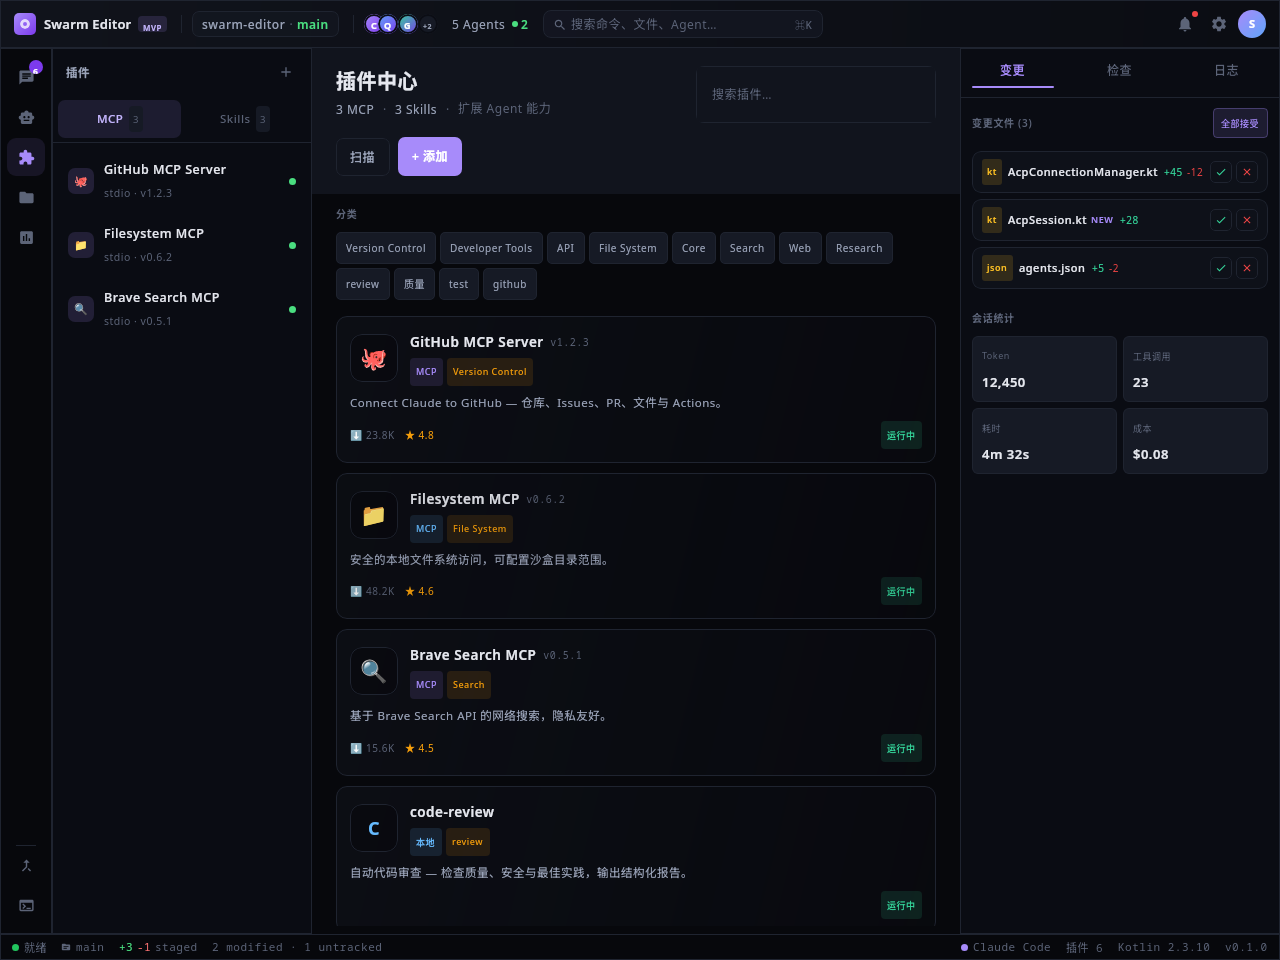
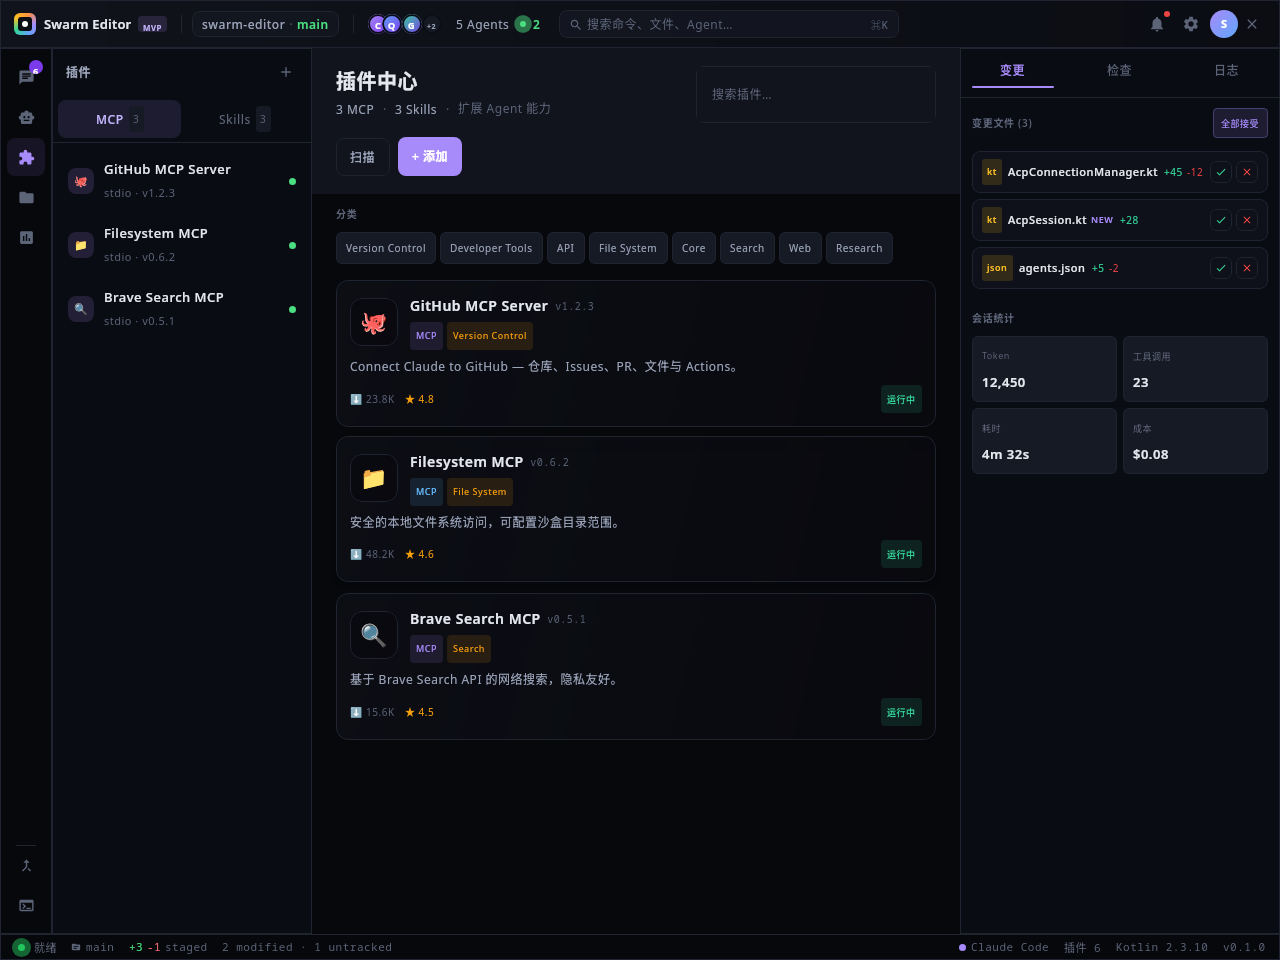
feat(desktop): 插件 MCP/Skills 独立面板 + 卡片 elevation 深度感
- 插件侧栏 MCP/Skills subtab 现驱动中间区（点击 MCP→显示 MCP 卡片；
  Skills→显示 Skills 卡片），不再合并显示（对齐核心稿 setPluginSideTab）
- 卡片基础 elevation 0→2dp（始终有微妙阴影层次感），hover 时 8dp
- 截图更新（chat + plugins）

diff --git a/desktopApp/src/main/kotlin/com/swarmeditor/desktop/ui/plugins/PluginCenterView.kt b/desktopApp/src/main/kotlin/com/swarmeditor/desktop/ui/plugins/PluginCenterView.kt
@@ -60,7 +60,8 @@ enum class PluginSubTab(val label: String) {
 fun PluginCenterView(
     mcpServers: List<McpServerDto>,
     skills: List<SkillDto>,
-    modifier: Modifier = Modifier
+    modifier: Modifier = Modifier,
+    activeTab: String = "mcp"
 ) {
     // State: list vs detail
     var selectedItem by remember { mutableStateOf<PluginItem?>(null) }
@@ -162,8 +163,8 @@ fun PluginCenterView(
                     }
                 }
 
-                // 分类标签（合并 MCP 分类 + Skills 标签）
-                val categories = (mcpServers.flatMap { it.categories } + skills.flatMap { it.tags }).distinct()
+                // 分类标签（按当前 tab 筛选）
+                val categories = if (activeTab == "mcp") mcpServers.flatMap { it.categories }.distinct() else skills.flatMap { it.tags }.distinct()
 
                 if (categories.isNotEmpty()) {
                     Column(modifier = Modifier.padding(horizontal = 24.dp, vertical = 8.dp)) {
@@ -198,13 +199,15 @@ fun PluginCenterView(
                     }
                 }
 
-                // 卡片网格：合并 MCP + Skills（按搜索过滤）
+                // 卡片网格：按当前 tab 筛选 MCP 或 Skills
                 val q = searchQuery.text.lowercase()
-                val items: List<PluginItem> =
+                val items: List<PluginItem> = if (activeTab == "mcp") {
                     mcpServers.filter { q.isEmpty() || it.name.lowercase().contains(q) || it.description.lowercase().contains(q) }
-                        .map { PluginItem.Mcp(it) } +
-                        skills.filter { q.isEmpty() || it.name.lowercase().contains(q) || it.description.lowercase().contains(q) }
+                        .map { PluginItem.Mcp(it) }
+                } else {
+                    skills.filter { q.isEmpty() || it.name.lowercase().contains(q) || it.description.lowercase().contains(q) }
                         .map { PluginItem.Skill(it) }
+                }
 
                 if (items.isEmpty()) {
                     Box(

diff --git a/desktopApp/src/main/kotlin/com/swarmeditor/desktop/App.kt b/desktopApp/src/main/kotlin/com/swarmeditor/desktop/App.kt
@@ -86,6 +86,7 @@ fun App(onClose: () -> Unit = {}) {
     var showSettings by remember { mutableStateOf(false) }
     var showRightPanel by remember { mutableStateOf(true) }
     var rightTab by remember { mutableStateOf("changes") }
+    var pluginSubTab by remember { mutableStateOf("mcp") }
     var showMcpConfig by remember { mutableStateOf<String?>(null) }
     var inputText by remember { mutableStateOf("") }
     val showAgentConfig by mainVm.showAgentConfig.collectAsState()
@@ -203,6 +204,8 @@ fun App(onClose: () -> Unit = {}) {
                     onSelectMcp = { showMcpConfig = it.id },
                     onSelectSkill = { mainVm.switchView("plugins") },
                     onAdd = { mainVm.showToast("添加插件") },
+                    activeTab = pluginSubTab,
+                    onTabChange = { pluginSubTab = it },
                     modifier = Modifier.fillMaxHeight()
                 )
                 else -> {}
@@ -242,7 +245,8 @@ fun App(onClose: () -> Unit = {}) {
                             PluginCenterView(
                                 mcpServers = mcpServers,
                                 skills = skills,
-                                modifier = Modifier.fillMaxSize()
+                                modifier = Modifier.fillMaxSize(),
+                                activeTab = pluginSubTab
                             )
                         }
                         "files" -> {

diff --git a/desktopApp/src/main/kotlin/com/swarmeditor/desktop/ui/SidePanels.kt b/desktopApp/src/main/kotlin/com/swarmeditor/desktop/ui/SidePanels.kt
@@ -139,9 +139,11 @@ fun PluginSideBar(
     onSelectMcp: (McpServerDto) -> Unit,
     onSelectSkill: (SkillDto) -> Unit,
     onAdd: () -> Unit = {},
+    activeTab: String = "mcp",
+    onTabChange: (String) -> Unit = {},
     modifier: Modifier = Modifier
 ) {
-    var tab by remember { mutableStateOf(PluginSideTab.MCP) }
+    val tab = if (activeTab == "skills") PluginSideTab.SKILLS else PluginSideTab.MCP
     Column(modifier.width(260.dp).fillMaxHeight().background(Bg1.copy(alpha = 0.85f)).border(1.dp, Line)) {
         SideHeader("插件", onAdd)
         // 子 tab
@@ -151,7 +153,7 @@ fun PluginSideBar(
                 Row(
                     Modifier.weight(1f).clip(RoundedCornerShape(8.dp))
                         .background(if (active) Ac.withAlpha(0.12f) else Color.Transparent)
-                        .clickable { tab = st }.padding(vertical = 6.dp),
+                        .clickable { onTabChange(if (st == PluginSideTab.MCP) "mcp" else "skills") }.padding(vertical = 6.dp),
                     horizontalArrangement = Arrangement.Center,
                     verticalAlignment = Alignment.CenterVertically
                 ) {

diff --git a/desktopApp/src/main/kotlin/com/swarmeditor/desktop/theme/Components.kt b/desktopApp/src/main/kotlin/com/swarmeditor/desktop/theme/Components.kt
@@ -151,7 +151,7 @@ fun PulseDot(
 fun Modifier.hoverLift(shape: Shape = RoundedCornerShape(12.dp)): Modifier {
     val interaction = remember { MutableInteractionSource() }
     val hovered by interaction.collectIsHoveredAsState()
-    val elev by animateDpAsState(if (hovered) 8.dp else 0.dp, label = "hoverLift")
+    val elev by animateDpAsState(if (hovered) 8.dp else 2.dp, label = "hoverLift")
     return this
         .hoverable(interaction)
         .offset(y = if (hovered) (-1).dp else 0.dp)
